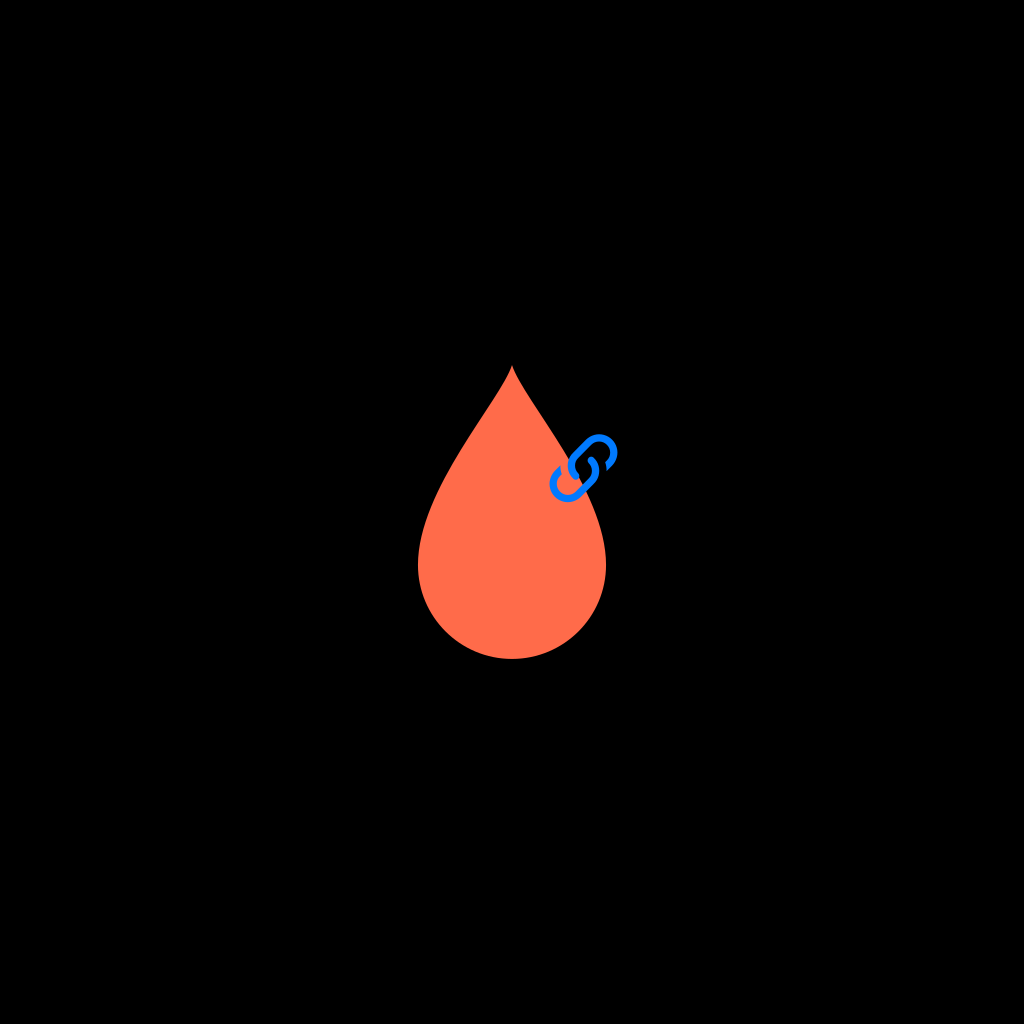
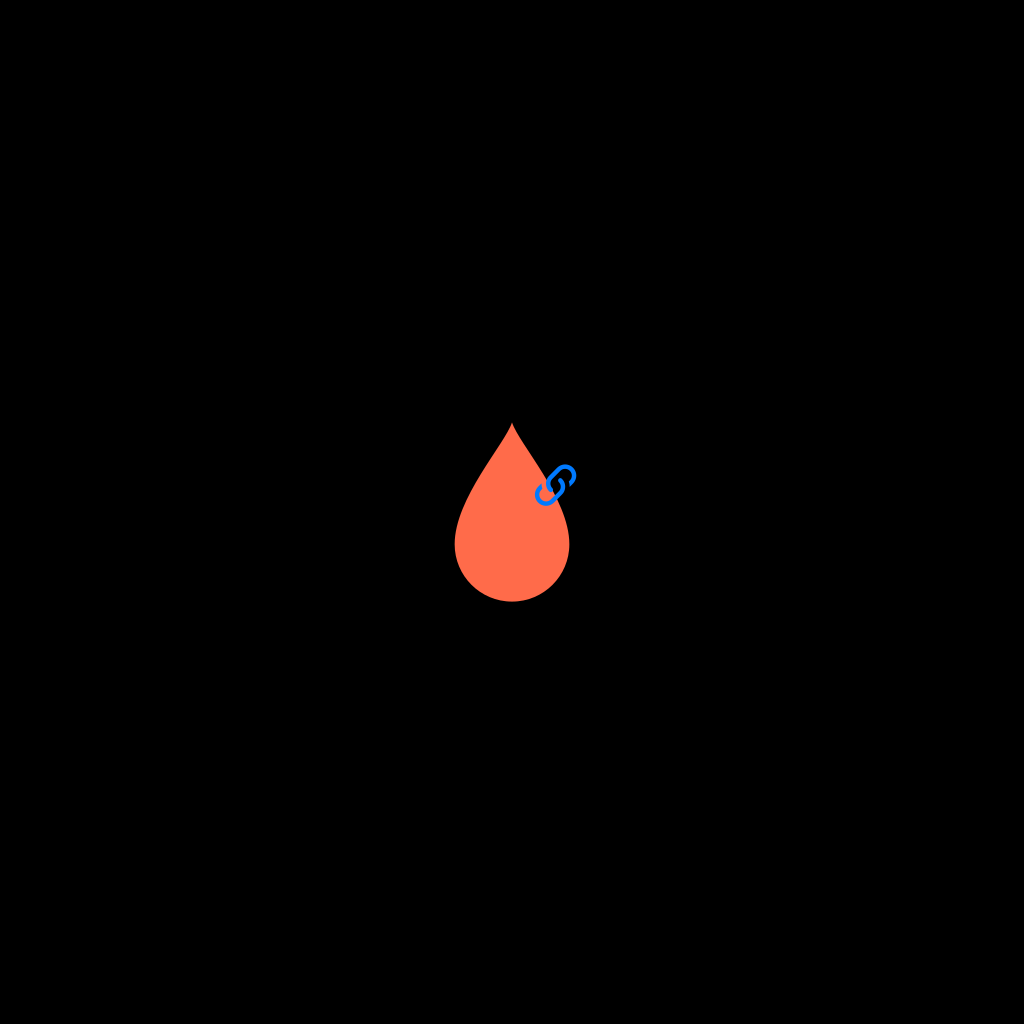
Auto-backup: 2026-03-17_18-41-43

Changed region(s): [[0.4062, 0.375, 0.625, 0.6562]]

diff --git a/mobile/generate-icons.js b/mobile/generate-icons.js
@@ -127,8 +127,8 @@ function generateIcon(filename, withPadding = false) {
   const centerX = offsetX + effectiveSize / 2;
   const centerY = offsetY + effectiveSize / 2;
   
-  // Drop takes ~41% of effective size (reduced 25% from 55%)
-  const dropHeight = effectiveSize * 0.41;
+  // Drop takes ~25% of effective size (reduced 40% from 41%)
+  const dropHeight = effectiveSize * 0.25;
   
   // Draw the water drop filled and get its bounds
   const dropBounds = drawWaterDropFilled(ctx, centerX, centerY, dropHeight, DROP_COLOR);

diff --git a/README.md b/README.md
@@ -1,6 +1,6 @@
 # DropLink App - Developer Documentation
 
-**Last Updated:** February 20, 2026 (Firebase FCM V1 Migration + BLE Permissions Caching + GitHub Actions Fixes)
+**Last Updated:** February 20, 2026 (Email Verification Resolved + Account Email Change Flow + Phone Verification Vonage Migration)
 
 ---
 
@@ -4319,42 +4319,112 @@ interface BleDevice {
 
 ---
 
-## Recent Changes (February 20, 2026 - Session 2)
+## Recent Changes (February 20, 2026 - Session 3)
 
-### Email Verification — Root Cause Identified and Resolution In Progress
+### Email Verification — RESOLVED
 
-**Status:** 🔄 IN PROGRESS — SMTP provider migration underway
+**Status:** ✅ COMPLETED — End-to-end email verification confirmed working
 
-**Root Cause Identified:**
+**Root Cause:**
 - SendGrid free trial expired December 24, 2025
 - All OTP email sends were failing with: `451 Authentication failed: Maximum credits exceeded`
-- This explains why email verification stopped working despite code being correct
 
-**Resolution Plan:**
-1. Migrating SMTP provider from SendGrid to Resend
-2. Resend domain verification for `droplinkconnect.com` in progress via Namecheap DNS records
-3. Supabase SMTP Settings will be updated with Resend credentials once domain is verified
-4. Magic Link email template confirmed correctly configured with `{{ .Token }}` for 6-digit OTP delivery
+**Resolution:**
+1. Migrated SMTP provider from SendGrid to **Brevo** (smtp-relay.brevo.com, port 587)
+2. Domain `droplinkconnect.com` authenticated in Brevo
+3. Supabase SMTP Settings updated with Brevo credentials
+4. Magic Link email template confirmed using `{{ .Token }}` for 6-digit OTP delivery
+5. Email verification end-to-end confirmed working
 
 **Email Verification Code Status:**
-- All code is fully active and functional (not commented out)
+- All code is fully active and functional
 - `sendOtpCode()` correctly calls `supabase.auth.signInWithOtp()` with `shouldCreateUser: true`
 - `verifyOtpCode()` correctly calls `supabase.auth.verifyOtp()` with type `'email'`
-- Detailed `[EMAIL-VERIFY]` diagnostic logging added throughout the flow
+- Detailed `[EMAIL-VERIFY]` diagnostic logging in place
 
-### Phone Verification — Twilio to Vonage Migration
+### Account Screen — Email Change Verification Flow
 
-**Status:** 🔄 PENDING — Twilio account compromised, migration required
+**Status:** ✅ COMPLETED — Password confirmation + OTP verification required
 
-**Background:**
-- Twilio account was breached and suspended
-- Phone verification was disabled for testing during this period
-- Migration to Vonage (via Supabase Phone Auth settings) is planned
+**New Flow:**
+1. User taps edit on email field, enters new email
+2. Modal appears: "Confirm Your Password" — user enters current password
+3. Password verified via `supabase.auth.signInWithPassword()`
+4. If successful, `supabase.auth.updateUser({ email: newEmail })` sends OTP to new address
+5. Modal transitions to OTP entry: "Verify New Email"
+6. User enters 6-digit code, verified via `supabase.auth.verifyOtp({ type: 'email_change' })`
+7. Profile updated, success toast shown
+
+**UI Improvements:**
+- Email row fixed to display on single line with ellipsis truncation (`numberOfLines={1}`, `ellipsizeMode="tail"`)
+- Email change modal styled consistent with existing phone verification modal
+
+**New State Variables Added:**
+```typescript
+const [emailChangeStep, setEmailChangeStep] = useState<'password' | 'otp' | null>(null);
+const [emailChangePassword, setEmailChangePassword] = useState('');
+const [emailChangeOtp, setEmailChangeOtp] = useState('');
+const [emailChangeError, setEmailChangeError] = useState('');
+const [emailChangePending, setEmailChangePending] = useState(false);
+const [pendingNewEmail, setPendingNewEmail] = useState('');
+```
+
+### Phone Verification — Vonage 10DLC Migration In Progress
+
+**Status:** 🔄 IN PROGRESS — Campaign registration pending approval
+
+**Completed Steps:**
+1. Vonage 10DLC brand registered and verified under **HiRule Labs LLC**
+2. Campaign number assigned: **(956) 452-3369**
+3. Supabase phone provider configured for Vonage
+
+**Pending:**
+- Low Volume Mixed campaign registration blocked on Vonage daily spending limit
+- Support ticket submitted to Vonage to increase limit
+- Phone verification will work once campaign is approved
 
 **Current State:**
-- Phone verification gates have been re-enabled with whitelist bypass
-- Detailed `[PHONE-VERIFY]` diagnostic logging added throughout the flow
-- API functions (`sendPhoneVerificationCode`, `verifyPhoneCode`) use Supabase Auth
+- Phone verification gates are active with whitelist bypass
+- Detailed `[PHONE-VERIFY]` diagnostic logging in place
+- API functions (`sendPhoneVerificationCode`, `verifyPhoneCode`) ready to use Supabase Auth with Vonage
+
+### Privacy Policy and Terms — Hosted on Notion
+
+**Status:** ✅ COMPLETED — Public URLs available for Vonage campaign submission
+
+**Documents:**
+- Privacy Policy: Hosted on Notion as public URL (required for 10DLC campaign)
+- Terms and Conditions: Hosted on Notion as public URL (required for 10DLC campaign)
+
+**Note:** These Notion pages were required for Vonage 10DLC campaign registration compliance.
+
+---
+
+## Recent Changes (February 20, 2026 - Session 2)
+
+### Signup Flow Enhancements
+
+**Status:** ✅ COMPLETED — All verification gates active with whitelist bypass
+
+**Birthday/Age Verification:**
+- New "Date of Birth" field with MM/DD/YYYY format
+- Auto-formatting: Slashes added automatically as user types
+- Real-time age validation: Users must be 13+ to create account
+
+**Terms and Conditions:**
+- Checkbox required before "Create Account" button works
+- Full-screen modal with 15-section legal agreement
+- Contact email: link@hirulelabs.com
+
+**Developer Whitelist:**
+```typescript
+const VERIFICATION_WHITELIST = {
+  emails: ['caitie690@gmail.com'],
+  phones: ['7344317582', '+17344317582', '17344317582'],
+};
+```
+- Whitelisted users bypass all verification gates silently
+- Added to `HomeScreen.tsx`, `DropScreen.tsx`, `SignupScreen.tsx`
 
 ### Verification System Re-enablement
 
@@ -4993,6 +5063,10 @@ const sphereRadius = Math.max(screenWidth, viewableHeight) * 0.85;
 8. **Age validation requires date arithmetic** - Calculate age accounting for whether birthday has occurred this year
 9. **Auto-format user input** - Adding slashes to MM/DD/YYYY as user types improves UX significantly
 10. **Legal compliance requires explicit consent** - Terms checkbox must be checked before account creation
+11. **Brevo is a reliable SendGrid alternative** - smtp-relay.brevo.com works well with Supabase SMTP settings
+12. **Email change requires password confirmation** - Use `signInWithPassword` to verify identity before `updateUser({ email })`
+13. **Supabase email_change OTP type** - Use `verifyOtp({ type: 'email_change' })` specifically for email change verification
+14. **10DLC campaign registration has daily limits** - Vonage caps spending during initial registration; contact support to increase
 
 ### Feature Requests / TODOs
 - [x] ~~Fix gray screen crash after signup/login~~ (RESOLVED Feb 14, 2026 - BLEAdvertiserNative stub + DB cleanup)
@@ -5022,8 +5096,9 @@ const sphereRadius = Math.max(screenWidth, viewableHeight) * 0.85;
 - [x] ~~Fix tutorial initialization loop~~ (RESOLVED Feb 20, 2026 - Ref-based guard in TutorialContext)
 - [x] ~~Add verification diagnostic logging~~ (RESOLVED Feb 20, 2026 - [PHONE-VERIFY] and [EMAIL-VERIFY] prefixes)
 - [x] ~~Backend security cleanup~~ (RESOLVED Feb 20, 2026 - Removed hardcoded secrets, Cloudinary references)
-- [ ] Complete SendGrid to Resend SMTP migration (domain verification in progress)
-- [ ] Complete Twilio to Vonage phone auth migration
+- [x] ~~Complete SendGrid to Brevo SMTP migration~~ (RESOLVED Feb 20, 2026 - droplinkconnect.com authenticated)
+- [x] ~~Add email change verification flow to AccountScreen~~ (RESOLVED Feb 20, 2026 - Password + OTP required)
+- [ ] Complete Twilio to Vonage phone auth migration (10DLC campaign registration pending)
 - [ ] Support more image formats (HEIC, WebP, HEIF)
 - [ ] Create Supabase RPC delete_user function
 - [ ] Update all tests for Supabase endpoints
